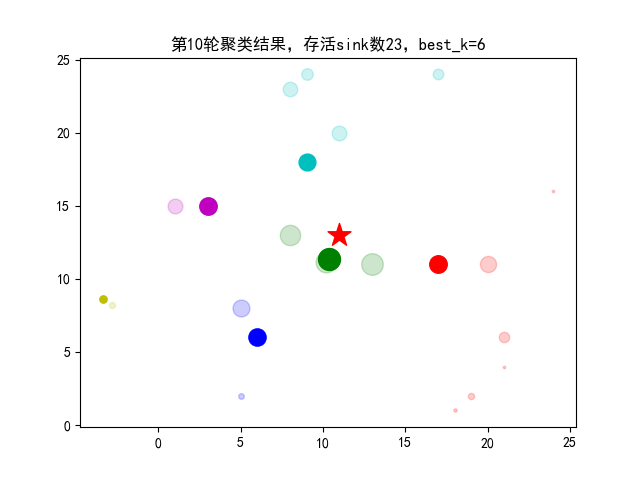
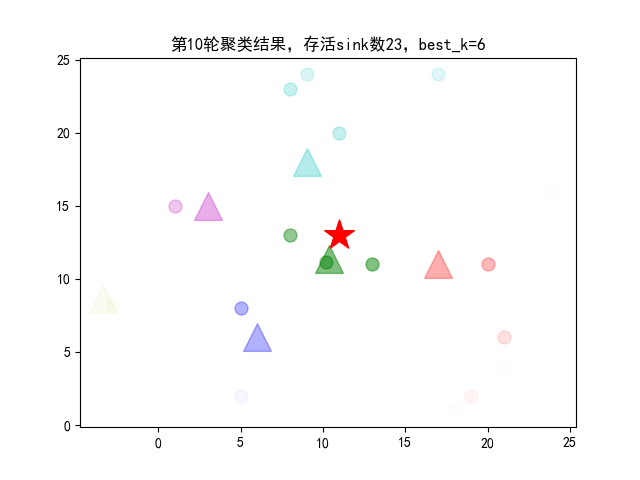
0324

diff --git a/main.py b/main.py
@@ -63,10 +63,10 @@ for t in range(1,max_T):
         cls_dis_mats.append(cls_dis_mat)
         for i,point in enumerate(cls[cat]):
             if i==head_index:
-                plt.scatter(point[0][0], point[0][1], c=colors[cat], marker=".", s=point[1] * 20,alpha=1)
+                plt.scatter(point[0][0], point[0][1], c=colors[cat], marker="^", s=400,alpha=point[1]/sink_init_e)
             else:
-                plt.scatter(point[0][0], point[0][1], c=colors[cat],marker=".",s=point[1]*20,alpha=0.2)
-    plt.scatter([central_sink_pos[0]], [central_sink_pos[1]], marker="*", s=300, c="r", alpha=1)
+                plt.scatter(point[0][0], point[0][1], c=colors[cat],marker=".",s=350,alpha=point[1]/sink_init_e)
+    plt.scatter([central_sink_pos[0]], [central_sink_pos[1]], marker="*", s=500, c="r", alpha=1)
     plt.savefig(f"{t}_res.png")
     plt.show()
 
